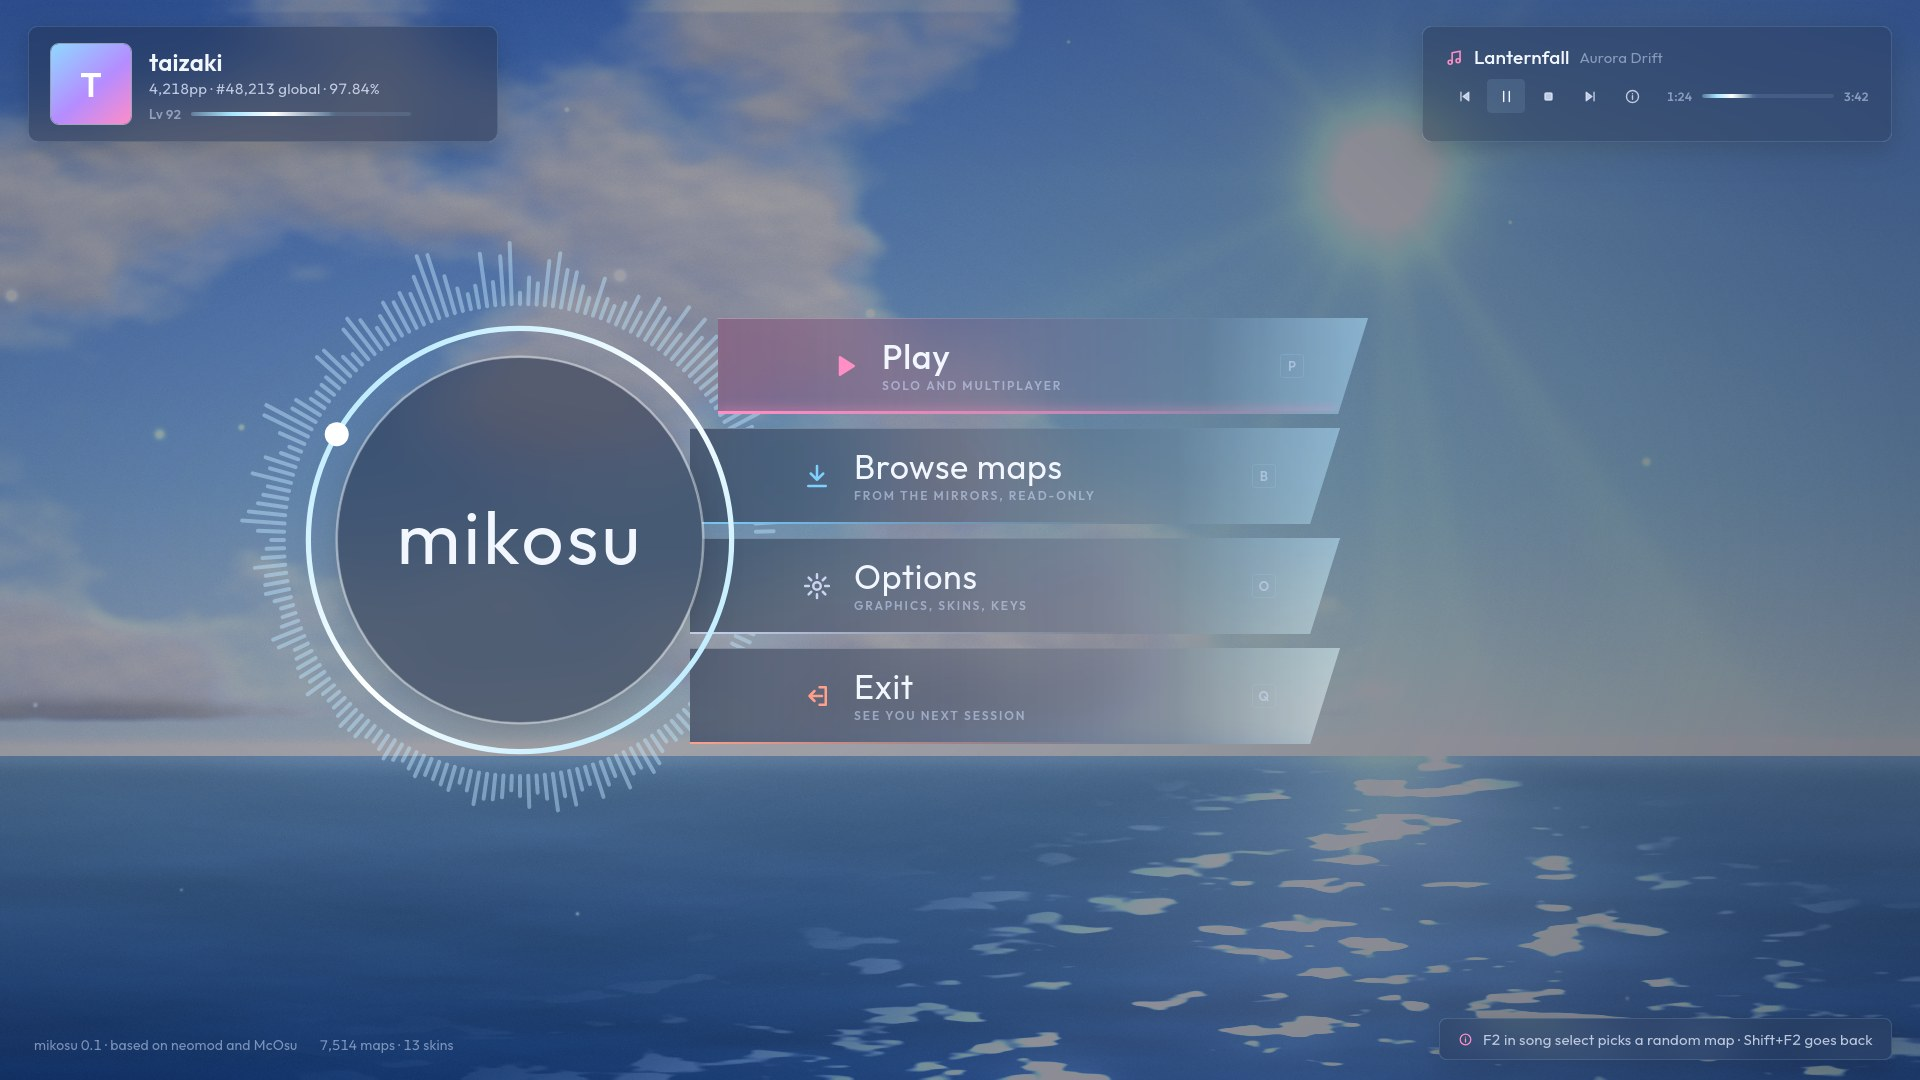
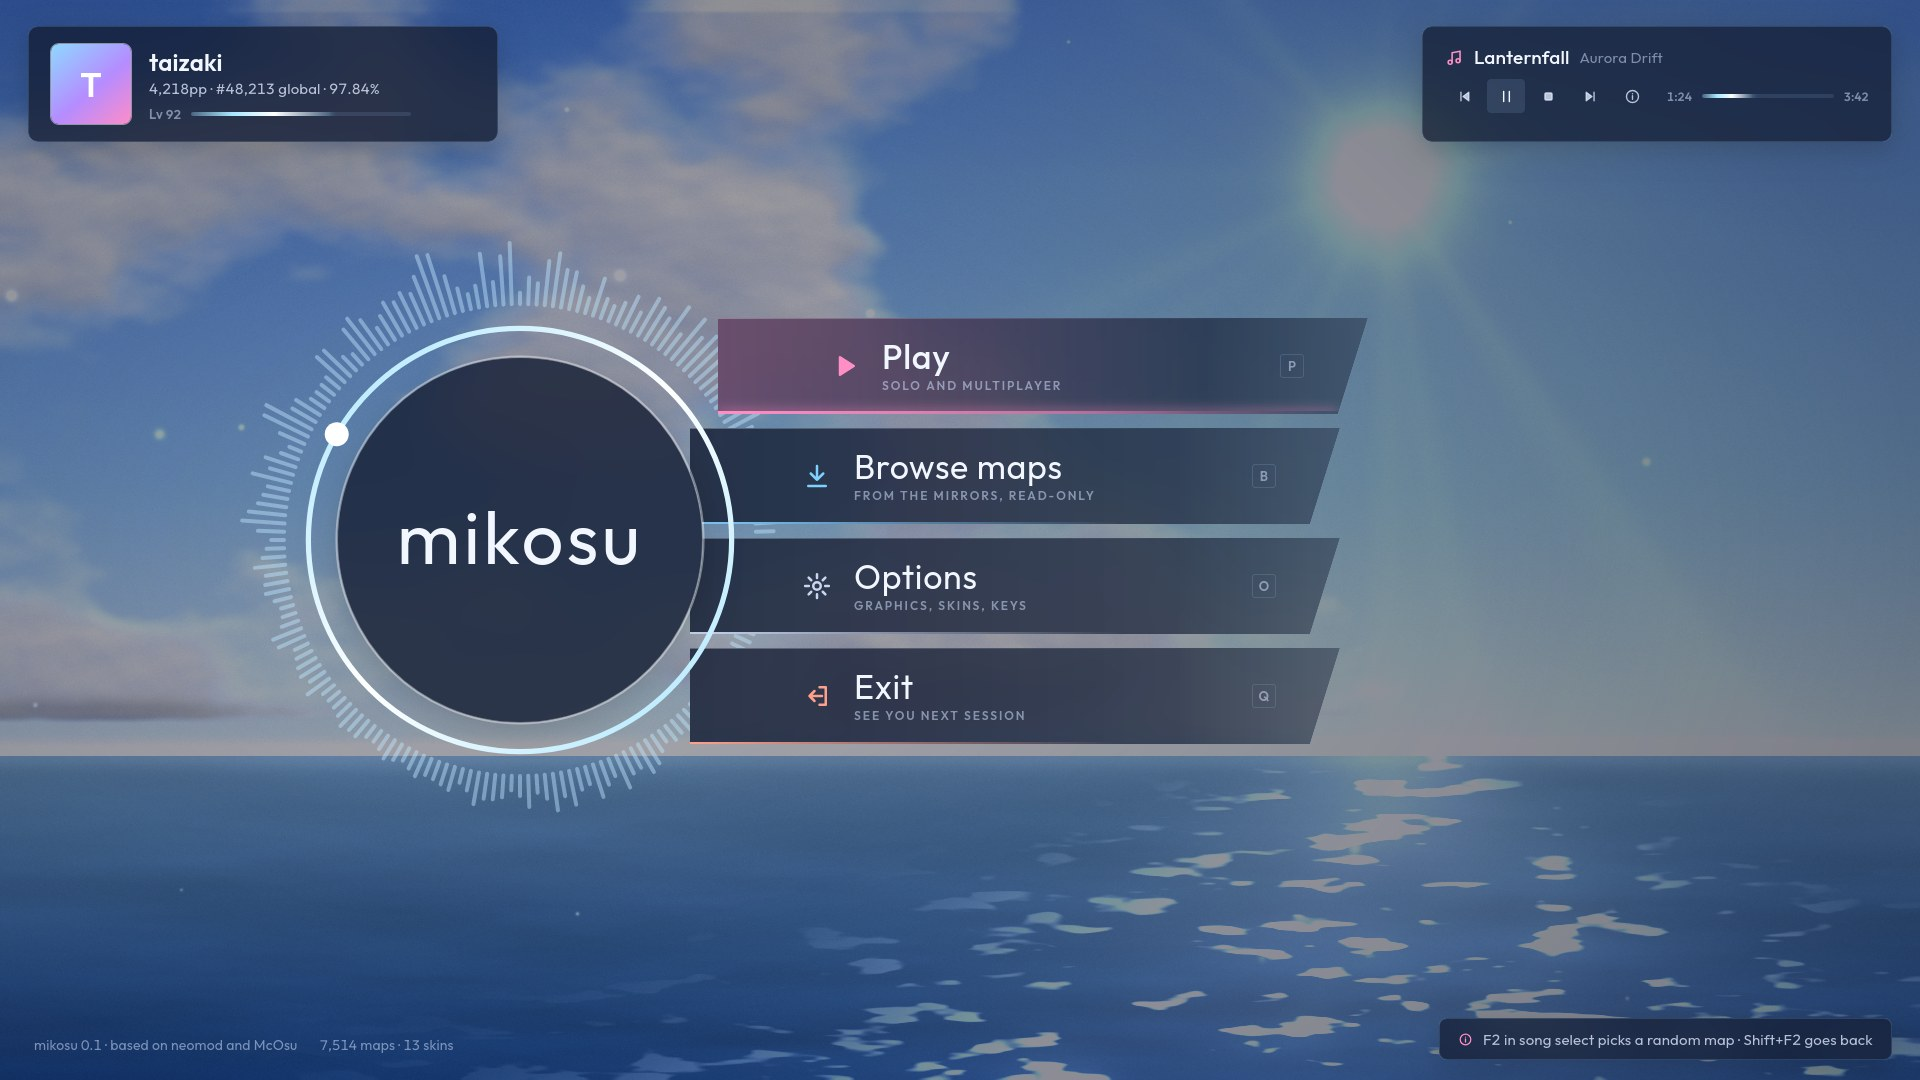
Design: less transparent panels in every theme
The user asked for less see-through panels. Bars, rows and carousel panels
go to 78-88% opacity over the blurred background, and the main-menu
buttons barely fade towards their ends.

diff --git a/docs/renovation/mockups/src/round4.css b/docs/renovation/mockups/src/round4.css
@@ -20,17 +20,17 @@ body {
   --ink2: rgba(255, 255, 255, 0.8);
   --ink3: rgba(255, 255, 255, 0.58);
   --dim: rgba(10, 14, 30, 0.22);
-  --bar: rgba(16, 20, 40, 0.58);
+  --bar: rgba(16, 20, 40, 0.8);
   --bar-edge: rgba(255, 255, 255, 0.14);
-  --row: rgba(16, 20, 40, 0.56);
+  --row: rgba(16, 20, 40, 0.78);
   --row-me: rgba(120, 30, 80, 0.62);
   --line: linear-gradient(90deg, #ff66aa, #c58cff 45%, #66ccff);
   --line-glow: rgba(255, 140, 210, 0.75);
   --pink: #ff66aa;
   --blue: #4fb4ff;
-  --set: linear-gradient(90deg, rgba(255, 92, 165, 0.95), rgba(246, 82, 156, 0.72) 55%, rgba(246, 82, 156, 0.38));
-  --diff: linear-gradient(90deg, rgba(58, 156, 255, 0.95), rgba(52, 138, 240, 0.72) 55%, rgba(52, 138, 240, 0.38));
-  --sel: linear-gradient(90deg, rgba(255, 255, 255, 0.99), rgba(255, 255, 255, 0.93) 55%, rgba(255, 255, 255, 0.72));
+  --set: linear-gradient(90deg, rgba(255, 92, 165, 0.97), rgba(246, 82, 156, 0.88) 55%, rgba(246, 82, 156, 0.7));
+  --diff: linear-gradient(90deg, rgba(58, 156, 255, 0.97), rgba(52, 138, 240, 0.88) 55%, rgba(52, 138, 240, 0.7));
+  --sel: linear-gradient(90deg, rgba(255, 255, 255, 1), rgba(255, 255, 255, 0.97) 55%, rgba(255, 255, 255, 0.88));
   --panel-ink: #ffffff;
   --panel-ink2: rgba(255, 255, 255, 0.84);
   --sel-ink: #1c2236;
@@ -51,17 +51,17 @@ body {
   --ink2: rgba(226, 236, 255, 0.78);
   --ink3: rgba(205, 220, 250, 0.55);
   --dim: rgba(6, 10, 28, 0.42);
-  --bar: rgba(14, 22, 44, 0.66);
+  --bar: rgba(14, 22, 44, 0.86);
   --bar-edge: rgba(170, 215, 255, 0.16);
-  --row: rgba(16, 26, 50, 0.6);
+  --row: rgba(16, 26, 50, 0.82);
   --row-me: rgba(30, 60, 110, 0.78);
   --line: linear-gradient(90deg, rgba(160, 225, 255, 0.2), #a8e6ff 30%, #ffffff 60%, rgba(160, 225, 255, 0.2));
   --line-glow: rgba(140, 215, 255, 0.85);
   --pink: #ff8fc4;
   --blue: #7fd0ff;
-  --set: linear-gradient(90deg, rgba(20, 30, 58, 0.9), rgba(20, 30, 58, 0.66) 60%, rgba(20, 30, 58, 0.36));
-  --diff: linear-gradient(90deg, rgba(30, 50, 90, 0.92), rgba(30, 50, 90, 0.68) 60%, rgba(30, 50, 90, 0.38));
-  --sel: linear-gradient(90deg, rgba(236, 245, 255, 0.98), rgba(236, 245, 255, 0.9) 55%, rgba(236, 245, 255, 0.66));
+  --set: linear-gradient(90deg, rgba(20, 30, 58, 0.96), rgba(20, 30, 58, 0.88) 60%, rgba(20, 30, 58, 0.72));
+  --diff: linear-gradient(90deg, rgba(30, 50, 90, 0.96), rgba(30, 50, 90, 0.88) 60%, rgba(30, 50, 90, 0.72));
+  --sel: linear-gradient(90deg, rgba(236, 245, 255, 1), rgba(236, 245, 255, 0.96) 55%, rgba(236, 245, 255, 0.86));
   --sel-ink: #13203c;
   --sel-ink2: #4c5f86;
   --sel-glow: 0 0 0 1.5px rgba(200, 235, 255, 0.95), 0 0 30px rgba(140, 215, 255, 0.55);
@@ -79,16 +79,16 @@ body {
   --ink2: rgba(31, 43, 69, 0.78);
   --ink3: rgba(31, 43, 69, 0.55);
   --dim: rgba(255, 255, 255, 0.06);
-  --bar: rgba(255, 255, 255, 0.58);
+  --bar: rgba(255, 255, 255, 0.82);
   --bar-edge: rgba(255, 255, 255, 0.75);
-  --row: rgba(255, 255, 255, 0.55);
+  --row: rgba(255, 255, 255, 0.8);
   --row-me: rgba(255, 214, 234, 0.82);
   --line: linear-gradient(90deg, #ff9fd0, #c7a8ff 45%, #86d8ff);
   --line-glow: rgba(255, 170, 220, 0.9);
   --pink: #ff7cbc;
   --blue: #4cb8f5;
-  --set: linear-gradient(90deg, rgba(255, 196, 226, 0.95), rgba(255, 226, 241, 0.8) 55%, rgba(255, 255, 255, 0.5));
-  --diff: linear-gradient(90deg, rgba(178, 222, 255, 0.95), rgba(218, 240, 255, 0.82) 55%, rgba(255, 255, 255, 0.5));
+  --set: linear-gradient(90deg, rgba(255, 196, 226, 0.98), rgba(255, 226, 241, 0.92) 55%, rgba(255, 255, 255, 0.8));
+  --diff: linear-gradient(90deg, rgba(178, 222, 255, 0.98), rgba(218, 240, 255, 0.92) 55%, rgba(255, 255, 255, 0.8));
   --sel: linear-gradient(90deg, rgba(255, 255, 255, 1), rgba(255, 255, 255, 0.95) 55%, rgba(255, 255, 255, 0.8));
   --panel-ink: #1f2b45;
   --panel-ink2: rgba(31, 43, 69, 0.72);
@@ -100,7 +100,7 @@ body {
   --sel-star-on: #ff7cbc;
   --sel-star-off: rgba(31, 43, 69, 0.16);
   --chip: rgba(31, 43, 69, 0.08);
-  --field: rgba(255, 255, 255, 0.6);
+  --field: rgba(255, 255, 255, 0.75);
   --back: linear-gradient(100deg, #ff8cc6, #ff6fb4);
   --back-ink: #ffffff;
   --mm-btn-ink: #1f2b45;
@@ -112,17 +112,17 @@ body {
   --ink2: rgba(255, 255, 255, 0.84);
   --ink3: rgba(240, 236, 255, 0.64);
   --dim: rgba(40, 36, 90, 0.14);
-  --bar: rgba(46, 50, 98, 0.56);
+  --bar: rgba(46, 50, 98, 0.8);
   --bar-edge: rgba(255, 255, 255, 0.28);
-  --row: rgba(50, 54, 104, 0.52);
-  --row-me: rgba(112, 66, 140, 0.68);
+  --row: rgba(50, 54, 104, 0.78);
+  --row-me: rgba(112, 66, 140, 0.86);
   --line: linear-gradient(90deg, #ffa8d8, #c9b2ff 45%, #9fe0ff);
   --line-glow: rgba(255, 190, 235, 0.85);
   --pink: #ff9fd0;
   --blue: #8fd4ff;
-  --set: linear-gradient(90deg, rgba(255, 140, 200, 0.72), rgba(160, 110, 200, 0.55) 55%, rgba(70, 70, 130, 0.38));
-  --diff: linear-gradient(90deg, rgba(110, 180, 255, 0.72), rgba(100, 120, 210, 0.55) 55%, rgba(60, 70, 130, 0.38));
-  --sel: linear-gradient(90deg, rgba(255, 255, 255, 0.98), rgba(255, 255, 255, 0.9) 55%, rgba(255, 255, 255, 0.68));
+  --set: linear-gradient(90deg, rgba(240, 130, 192, 0.92), rgba(150, 104, 192, 0.86) 55%, rgba(70, 70, 130, 0.76));
+  --diff: linear-gradient(90deg, rgba(100, 168, 245, 0.92), rgba(92, 112, 200, 0.86) 55%, rgba(60, 70, 130, 0.76));
+  --sel: linear-gradient(90deg, rgba(255, 255, 255, 1), rgba(255, 255, 255, 0.97) 55%, rgba(255, 255, 255, 0.88));
   --panel-ink: #ffffff;
   --panel-ink2: rgba(255, 255, 255, 0.86);
   --sel-ink: #232a4a;
@@ -133,7 +133,7 @@ body {
   --sel-star-on: #ff7cbc;
   --sel-star-off: rgba(35, 42, 74, 0.16);
   --chip: rgba(255, 255, 255, 0.16);
-  --field: rgba(255, 255, 255, 0.14);
+  --field: rgba(255, 255, 255, 0.16);
   --back: linear-gradient(100deg, #ff9fd0, #c3a2ff);
   --back-ink: #ffffff;
   --mm-btn-ink: #ffffff;
@@ -297,7 +297,7 @@ canvas.viz { position: absolute; left: 0; top: 0; width: 1920px; height: 1080px;
    right, a thin glowing line along the bottom in the button's colour; no rounded boxes, no shine */
 .mb { width: 650px; height: 96px; display: flex; align-items: center; gap: 22px; padding: 0 64px 0 112px; position: relative; color: var(--ink);
       clip-path: polygon(0 0, 100% 0, calc(100% - 30px) 100%, 0 100%);
-      --layer: linear-gradient(90deg, var(--bar), color-mix(in srgb, var(--bar) 70%, transparent) 75%, color-mix(in srgb, var(--bar) 35%, transparent)); }
+      --layer: linear-gradient(90deg, var(--bar), color-mix(in srgb, var(--bar) 92%, transparent) 75%, color-mix(in srgb, var(--bar) 80%, transparent)); }
 .mb::after { content: ""; position: absolute; left: 0; right: 30px; bottom: 0; height: 2px; background: linear-gradient(90deg, var(--acc), color-mix(in srgb, var(--acc) 0%, transparent) 70%); }
 .mb::before { content: ""; position: absolute; left: 0; right: 0; top: 0; height: 1px; background: linear-gradient(90deg, rgba(255, 255, 255, 0.28), transparent 80%); }
 .mb .ic { font-size: 30px; color: var(--acc); }
@@ -305,7 +305,7 @@ canvas.viz { position: absolute; left: 0; top: 0; width: 1920px; height: 1080px;
 .mb .lbl b { font-size: 34px; font-weight: 400; letter-spacing: 0.02em; line-height: 1.05; }
 .mb .lbl small { font-size: 12px; font-weight: 600; letter-spacing: 0.16em; text-transform: uppercase; color: var(--ink3); }
 .mb .k { margin-left: auto; font-size: 13px; font-weight: 600; color: var(--ink3); border: 1px solid var(--bar-edge); border-radius: 3px; width: 24px; height: 24px; display: grid; place-items: center; }
-.mb.hov { margin-left: 28px; --layer: linear-gradient(90deg, color-mix(in srgb, var(--acc) 30%, var(--bar)), color-mix(in srgb, var(--bar) 70%, transparent) 75%, color-mix(in srgb, var(--bar) 35%, transparent)); }
+.mb.hov { margin-left: 28px; --layer: linear-gradient(90deg, color-mix(in srgb, var(--acc) 30%, var(--bar)), color-mix(in srgb, var(--bar) 92%, transparent) 75%, color-mix(in srgb, var(--bar) 80%, transparent)); }
 .mb.hov::after { right: 30px; height: 3px; background: linear-gradient(90deg, var(--acc), color-mix(in srgb, var(--acc) 60%, transparent) 60%, transparent); box-shadow: 0 0 12px var(--acc); }
 .mb.hov .lbl b { font-weight: 500; }
 .mm-foot { position: absolute; left: 34px; bottom: 26px; font-size: 14px; color: var(--ink3); display: flex; gap: 22px; }

diff --git a/docs/renovation/DESIGN.md b/docs/renovation/DESIGN.md
@@ -88,7 +88,7 @@ The three treatments:
 
 Stable's exact composition, made modern. Mockups: `mockups/{mainmenu4,songselect4}-{stable,moon,day}.jpg`; source in `mockups/src/{round4.css,round4.js,*4.html,make_art4.py}`.
 - **Layout, as stable:** song select's full-width header, deeper on the left for the map info (title [difficulty], artist and mapper, length/BPM/objects, circles/sliders/spinners, CS/AR/OD/HP/stars with pp) and stepping up on the right (group and sort, search, stable's filter tabs), the leaderboard tabs under the info; the leaderboard on the left; the carousel on the right with collapsed sets, the open set's difficulties and the selection in the middle, drifting right with distance; the bottom bar with back, mode, mods, random, options (each with its coloured marker, as in stable), the user panel and the logo bottom-right. The main menu: the logo left of centre with the visualiser, four buttons sliding out from behind it (the hovered one slides further), the user card top-left, the music player top-right.
-- **Material:** frosted glass (the background blurred once and cached), 14–20 px corners, 1 px light edges, soft shadows, thin glowing gradient lines on the header and bottom bar edges, glowing selection.
+- **Material:** mostly opaque frosted glass (the user: "make them less transparent"; panels at 78–88% opacity over the blurred background, which only tints them), 14–20 px corners, 1 px light edges, soft shadows, thin glowing gradient lines on the header and bottom bar edges, glowing selection.
 - **Type:** Outfit, lighter weights for large text (36 px title at 600 with the difficulty at 300), uppercase letter-spaced labels.
 - **Stable's details kept:** ten stars per difficulty with the fraction as a smaller star; grade letters (S gold, A green, B blue) before the difficulty name; "Score … (combo)" in the leaderboard.
 - **Looks** (all four ship as themes, switchable in the options; Dusk is the default):
